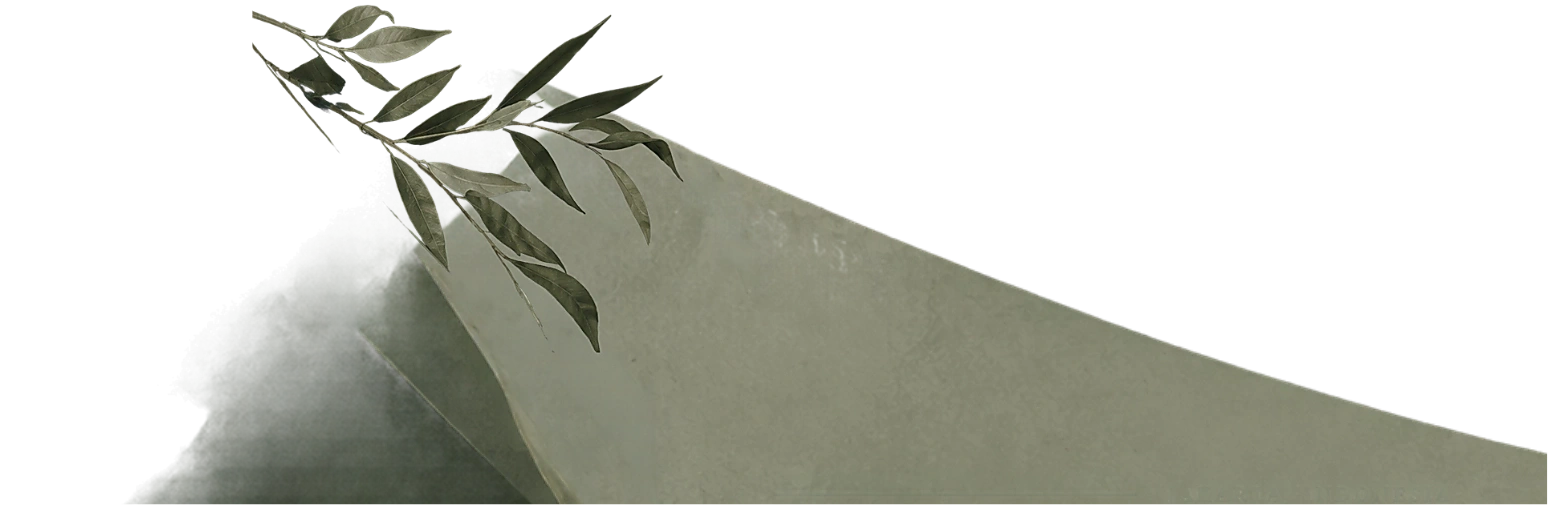
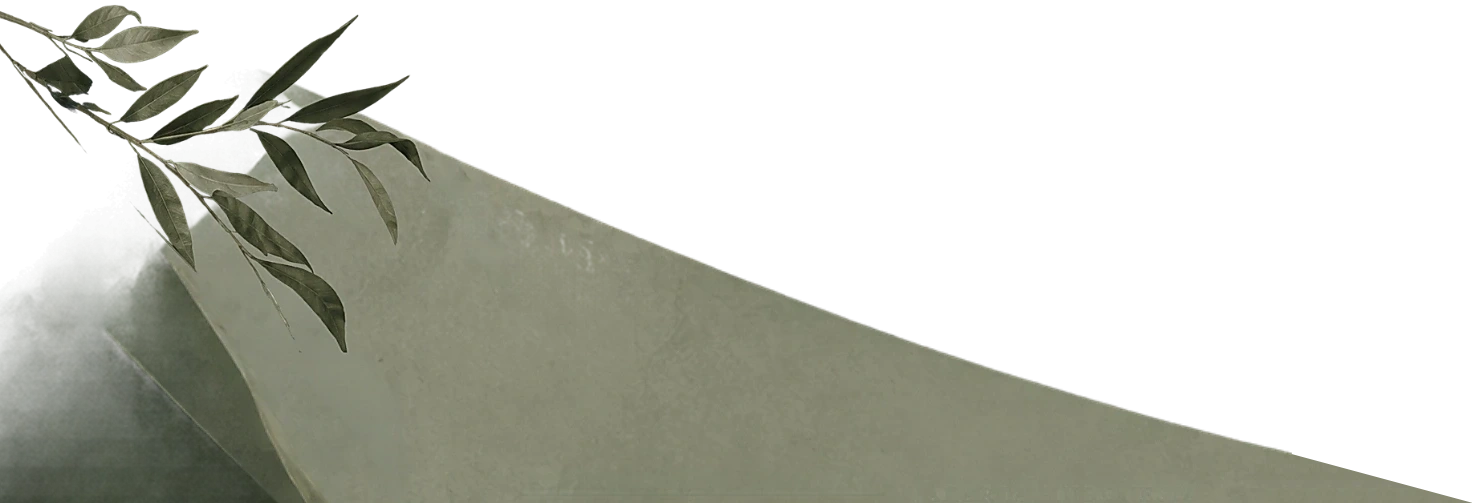
navbar

diff --git a/integrated/index.html b/integrated/index.html
@@ -146,32 +146,32 @@
       </header>
 
       <!-- Main content hero -->
-      <div class="relative z-10 flex h-full min-h-[100svh] flex-col justify-center px-6 md:px-16">
+      <div class="relative z-10 flex h-full min-h-[100svh] flex-col justify-start pt-20 pb-40 md:pt-24 md:pb-52 lg:pb-56 px-6 md:px-16">
         
-        <div class="max-w-xl mt-20">
-          <div class="flex items-center gap-4 mb-4">
+        <div class="max-w-xl">
+          <div class="flex items-center gap-4 mb-3">
             <div class="h-px w-12 bg-warmwhite"></div>
             <p id="hero-tagline" class="text-xs uppercase tracking-editorial text-warmwhite">THE WEDDING OF</p>
           </div>
           
-          <h1 id="hero-couple-title" class="font-display text-7xl md:text-9xl leading-none text-warmwhite font-light">
-            <span id="hero-groom-name">Fakhrel</span><br>
-            <span class="font-script text-4xl md:text-6xl italic lowercase relative -top-2 left-4">and</span><br>
+          <h1 id="hero-couple-title" class="font-display text-6xl sm:text-7xl md:text-[5.5rem] lg:text-[6.25rem] leading-[0.92] text-warmwhite font-light">
+            <span id="hero-groom-name">Fakhrel</span>
+            <span class="block font-script text-3xl sm:text-4xl md:text-5xl italic lowercase leading-[0.75] my-1.5 pl-3">and</span>
             <span id="hero-bride-name">Olivia</span>
           </h1>
           
-          <p id="hero-wedding-date" class="mt-8 text-sm uppercase tracking-[0.3em] text-warmwhite">
+          <p id="hero-wedding-date" class="mt-5 md:mt-6 text-sm uppercase tracking-[0.3em] text-warmwhite">
             25 OCTOBER 2026
           </p>
           
-          <div class="mt-16 md:mt-24">
-            <p class="text-lg md:text-xl font-display text-warmwhite">Kepada Yth,</p>
-            <p id="nama-tamu" class="text-2xl md:text-4xl font-display text-warmwhite mb-4 leading-tight">Bapak/Ibu/Saudara/i</p>
-            <p id="hero-salam-text" class="text-sm md:text-base text-warmwhite/80 max-w-sm mb-6 leading-relaxed">
+          <div class="mt-7 md:mt-9">
+            <p class="text-base md:text-lg font-display text-warmwhite">Kepada Yth,</p>
+            <p id="nama-tamu" class="text-2xl md:text-3xl font-display text-warmwhite mb-3 leading-tight">Bapak/Ibu/Saudara/i</p>
+            <p id="hero-salam-text" class="text-xs sm:text-sm md:text-base text-warmwhite/80 max-w-sm mb-5 leading-relaxed">
               Tanpa mengurangi rasa hormat, kami mengundang Anda untuk hadir dalam hari bahagia kami.
             </p>
             
-            <a href="#about" class="inline-flex items-center gap-4 bg-warmwhite text-moss px-6 py-3 rounded-full font-medium hover:bg-white transition">
+            <a href="#about" class="inline-flex items-center gap-4 bg-warmwhite text-moss px-6 py-2.5 md:py-3 rounded-full text-sm md:text-base font-medium hover:bg-white transition">
               Buka Undangan &rarr;
             </a>
           </div>
@@ -179,14 +179,14 @@
       </div>
 
       <!-- Right bottom script text -->
-      <div class="absolute right-12 md:right-32 bottom-24 md:bottom-40 z-10 text-right rotate-[-10deg]">
+      <div class="absolute right-12 md:right-32 bottom-20 md:bottom-28 z-10 text-right rotate-[-10deg]">
         <p id="hero-script-text" class="font-script text-4xl md:text-5xl text-warmwhite">A new<br>chapter<br>together</p>
       </div>
 
-      <!-- Bottom decorations — full width, z BELOW text so teks tidak tertutup -->
-      <picture class="absolute bottom-0 left-0 z-[5] pointer-events-none w-full md:w-[75%]">
+      <!-- Bottom decorations — aligned to bottom-left below CTA button matching mockup/1.png -->
+      <picture class="absolute bottom-0 left-0 z-[5] pointer-events-none w-[78%] sm:w-[60%] md:w-[46%] lg:w-[44%] max-w-[640px]">
         <source media="(min-width: 768px)" srcset="../aset/elemen_bagian_hero_section(desktop).webp">
-        <img src="../aset/elemen_bagian_hero_section(mobile).webp" alt="Leaves decoration" class="w-full h-auto object-contain object-bottom-left" />
+        <img src="../aset/elemen_bagian_hero_section(mobile).webp" alt="Leaves decoration" class="block w-full h-auto object-contain object-left-bottom" />
       </picture>
 
 

diff --git a/integrated/parts/sec1.html b/integrated/parts/sec1.html
@@ -86,32 +86,32 @@
       </header>
 
       <!-- Main content hero -->
-      <div class="relative z-10 flex h-full min-h-[100svh] flex-col justify-center px-6 md:px-16">
+      <div class="relative z-10 flex h-full min-h-[100svh] flex-col justify-start pt-20 pb-40 md:pt-24 md:pb-52 lg:pb-56 px-6 md:px-16">
         
-        <div class="max-w-xl mt-20">
-          <div class="flex items-center gap-4 mb-4">
+        <div class="max-w-xl">
+          <div class="flex items-center gap-4 mb-3">
             <div class="h-px w-12 bg-warmwhite"></div>
             <p class="text-xs uppercase tracking-editorial text-warmwhite">THE WEDDING OF</p>
           </div>
           
-          <h1 class="font-display text-7xl md:text-9xl leading-none text-warmwhite font-light">
-            Fakhrel<br>
-            <span class="font-script text-4xl md:text-6xl italic lowercase relative -top-2 left-4">and</span><br>
+          <h1 class="font-display text-6xl sm:text-7xl md:text-[5.5rem] lg:text-[6.25rem] leading-[0.92] text-warmwhite font-light">
+            Fakhrel
+            <span class="block font-script text-3xl sm:text-4xl md:text-5xl italic lowercase leading-[0.75] my-1.5 pl-3">and</span>
             Olivia
           </h1>
           
-          <p class="mt-8 text-sm uppercase tracking-[0.3em] text-warmwhite">
+          <p class="mt-5 md:mt-6 text-sm uppercase tracking-[0.3em] text-warmwhite">
             25 OCTOBER 2026
           </p>
           
-          <div class="mt-16 md:mt-24">
-            <p class="text-lg md:text-xl font-display text-warmwhite">Kepada Yth,</p>
-            <p id="nama-tamu" class="text-2xl md:text-4xl font-display text-warmwhite mb-4 leading-tight">Bapak/Ibu/Saudara/i</p>
-            <p class="text-sm md:text-base text-warmwhite/80 max-w-sm mb-6 leading-relaxed">
+          <div class="mt-7 md:mt-9">
+            <p class="text-base md:text-lg font-display text-warmwhite">Kepada Yth,</p>
+            <p id="nama-tamu" class="text-2xl md:text-3xl font-display text-warmwhite mb-3 leading-tight">Bapak/Ibu/Saudara/i</p>
+            <p class="text-xs sm:text-sm md:text-base text-warmwhite/80 max-w-sm mb-5 leading-relaxed">
               Tanpa mengurangi rasa hormat, kami mengundang Anda untuk hadir dalam hari bahagia kami.
             </p>
             
-            <a href="#about" class="inline-flex items-center gap-4 bg-warmwhite text-moss px-6 py-3 rounded-full font-medium hover:bg-white transition">
+            <a href="#about" class="inline-flex items-center gap-4 bg-warmwhite text-moss px-6 py-2.5 md:py-3 rounded-full text-sm md:text-base font-medium hover:bg-white transition">
               Buka Undangan &rarr;
             </a>
           </div>
@@ -119,14 +119,14 @@
       </div>
 
       <!-- Right bottom script text -->
-      <div class="absolute right-12 md:right-32 bottom-24 md:bottom-40 z-10 text-right rotate-[-10deg]">
+      <div class="absolute right-12 md:right-32 bottom-20 md:bottom-28 z-10 text-right rotate-[-10deg]">
         <p class="font-script text-4xl md:text-5xl text-warmwhite">A new<br>chapter<br>together</p>
       </div>
 
-      <!-- Bottom decorations — full width, z BELOW text so teks tidak tertutup -->
-      <picture class="absolute bottom-0 left-0 z-[5] pointer-events-none w-full md:w-[75%]">
+      <!-- Bottom decorations — aligned to bottom-left below CTA button matching mockup/1.png -->
+      <picture class="absolute bottom-0 left-0 z-[5] pointer-events-none w-[78%] sm:w-[60%] md:w-[46%] lg:w-[44%] max-w-[640px]">
         <source media="(min-width: 768px)" srcset="../aset/elemen_bagian_hero_section(desktop).webp">
-        <img src="../aset/elemen_bagian_hero_section(mobile).webp" alt="Leaves decoration" class="w-full h-auto object-contain object-bottom-left" />
+        <img src="../aset/elemen_bagian_hero_section(mobile).webp" alt="Leaves decoration" class="block w-full h-auto object-contain object-left-bottom" />
       </picture>
 
 

diff --git a/integrated/style.css b/integrated/style.css
@@ -1949,24 +1949,38 @@ summary:focus-visible {
   fill: #FAF8F2;
 }
 
-/* Small screens / mobile */
-@media (max-width: 640px) {
+/* Small screens / mobile: horizontal bottom pill navbar */
+@media (max-width: 767px) {
   .wedding-floating-nav {
-    right: 0.5rem;
-    width: 3.5rem;
-    padding: 0.35rem 0.25rem;
-    gap: 0.25rem;
+    top: auto;
+    bottom: max(0.75rem, env(safe-area-inset-bottom));
+    left: 0.65rem;
+    right: 0.65rem;
+    margin-inline: auto;
+    transform: none;
+    flex-direction: row;
+    justify-content: space-between;
+    align-items: stretch;
+    width: auto;
+    max-width: 26rem;
+    padding: 0.35rem 0.35rem;
+    gap: 0.15rem;
+    border-radius: 9999px;
   }
 
   .wedding-nav-link {
-    min-height: 2.95rem;
-    padding: 0.35rem 0.1rem;
+    flex: 1 1 0%;
+    width: auto;
+    min-width: 0;
+    min-height: 3.1rem;
+    padding: 0.32rem 0.12rem;
+    border-radius: 9999px;
   }
 
   .wedding-nav-icon-wrap {
     width: 1.15rem;
     height: 1.15rem;
-    margin-bottom: 0.15rem;
+    margin-bottom: 0.12rem;
   }
 
   .wedding-nav-icon {
@@ -1976,12 +1990,18 @@ summary:focus-visible {
 
   .wedding-nav-label {
     font-size: 0.52rem;
-    line-height: 1.1;
+    line-height: 1.05;
+    white-space: nowrap;
+  }
+
+  .audio-player {
+    right: max(0.85rem, env(safe-area-inset-right));
+    bottom: calc(5.15rem + env(safe-area-inset-bottom));
   }
 }
 
-/* If screen height is very short (e.g. landscape phone) */
-@media (max-height: 540px) {
+/* If desktop screen height is very short */
+@media (min-width: 768px) and (max-height: 540px) {
   .wedding-floating-nav {
     transform: translateY(-50%) scale(0.82);
     transform-origin: right center;
